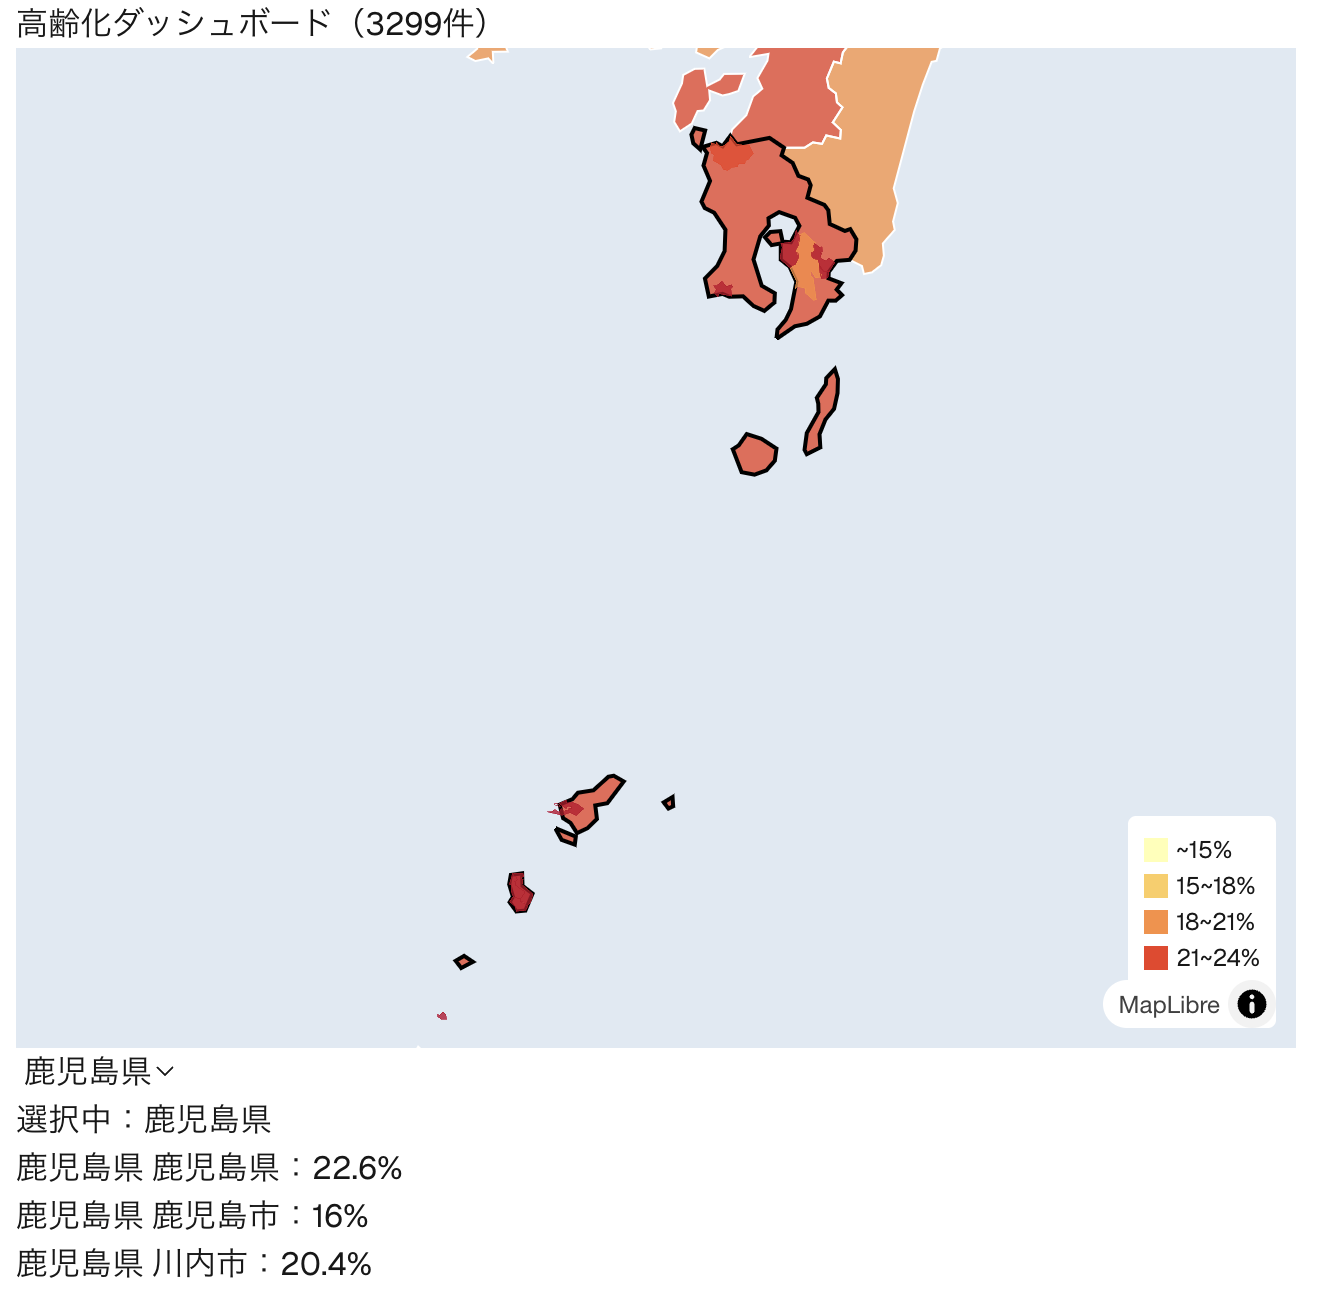
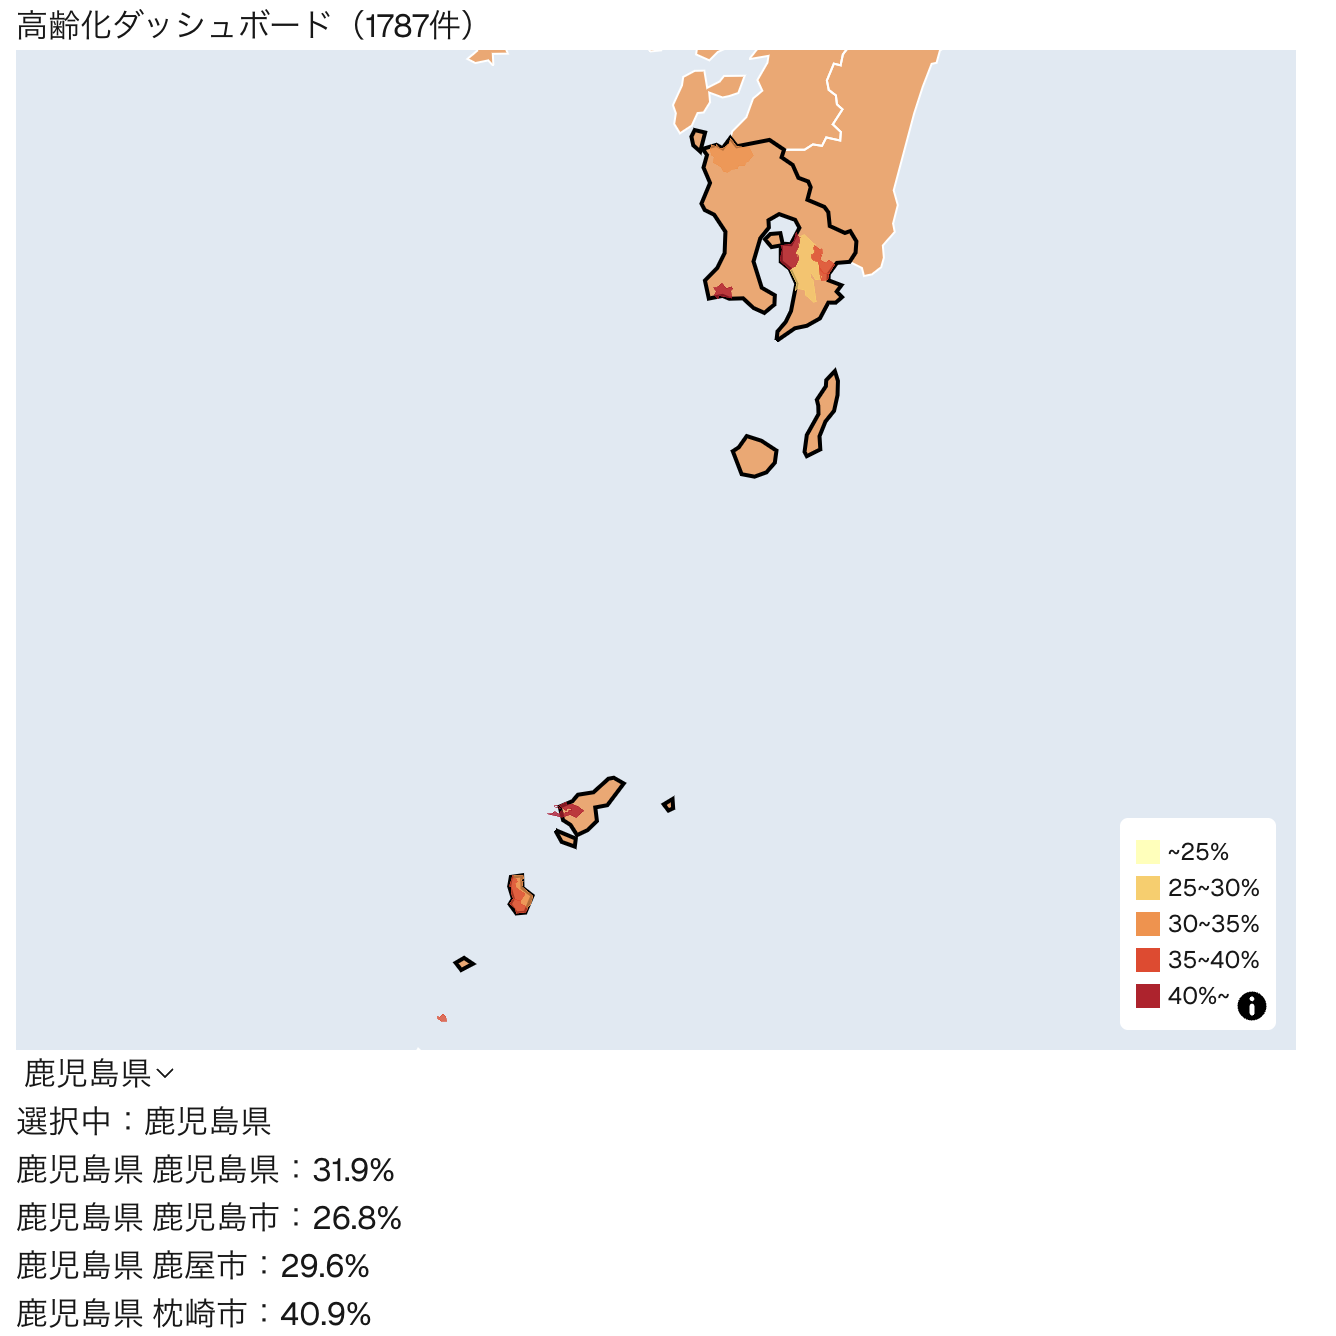
READMEを2020年データに合わせて更新（出典・工夫した点・スクリーンショット）

diff --git a/README.md b/README.md
@@ -9,7 +9,7 @@
 
 ## 概要
 
-- データ出典: [e-Stat](https://www.e-stat.go.jp/)（政府統計の総合窓口）API ／ 平成12年（2000年）国勢調査
+- データ出典: [e-Stat](https://www.e-stat.go.jp/)（政府統計の総合窓口）API ／ 令和2年（2020年）国勢調査（「社会・人口統計体系」の総人口・65歳以上人口から高齢化率を算出）
 - 全国の都道府県・市区町村の **高齢化率（65歳以上人口の割合）** を地図とリストで確認できます
 - e-Stat から取得したデータを整形して PostgreSQL（PostGIS）に格納し、Django の API から配信しています
 
@@ -101,11 +101,26 @@ Dashboard に持たせ、子コンポーネントには props で渡すように
 複数のコンポーネントで同じ情報を使うときは、その情報を親コンポーネントに持たせて、
 子には props で渡すと、表示がずれなくなると学びました。
 
+### データを2020年国勢調査に更新（市区町村の合計から都道府県の値を算出）
+
+当初のデータは平成12年（2000年）の国勢調査で、市町村合併前の地域が含まれていたため、
+現在の市区町村の境界データと一致しない地域がありました。
+そこで e-Stat「社会・人口統計体系」の2020年の総人口・65歳以上人口から、高齢化率を自分で計算するように変更しました。
+
+この表には都道府県の行がないため、市区町村の人口を合計して都道府県の高齢化率を算出しています。
+その際、政令指定都市の区は市と二重に数えないよう除外し、
+東京23区は独立した自治体として残しました（代わりに23区の合計である「特別区部」を除外）。
+残った件数が2020年時点の市区町村数（1741）と一致することを確認しています。
+また、計算中のゼロ除算から、原発事故の避難で人口が0となっている福島県双葉町に気づき、対象から外しました。
+
+都道府県ごとの高齢化率を求める際に市町村ごとの高齢化率を平均すると、人口の多い市と少ない町が同じ重みで扱われてしまうため、
+65歳以上人口と総人口をそれぞれ合計してから割る必要があることを学びました。
+また、エラーが出た際にエラー原因のみ調べるだけでなく、その背景まで調べることでデータをどのように扱うべきか気づけると学びました。
+
 ## 今後の予定
 
 単一指標（高齢化率）の「閲覧ツール」から、複数指標の「分析ツール」へ拡張中です。
 
-- **データを2020年国勢調査に更新**（e-Stat「社会・人口統計体系」の総人口・65歳以上人口から高齢化率を算出。合併後の現在の市区町村と境界データが一致するようになる）
 - 指標の追加：人口増減率・財政力指数・生産年齢人口比率・1人あたり課税対象所得
 - 指標を重み付けして合成した「課題スコア」（スライダーで重みを調整）
 - 課題の大きい市区町村のランキングと地図ハイライト、Excel 出力
